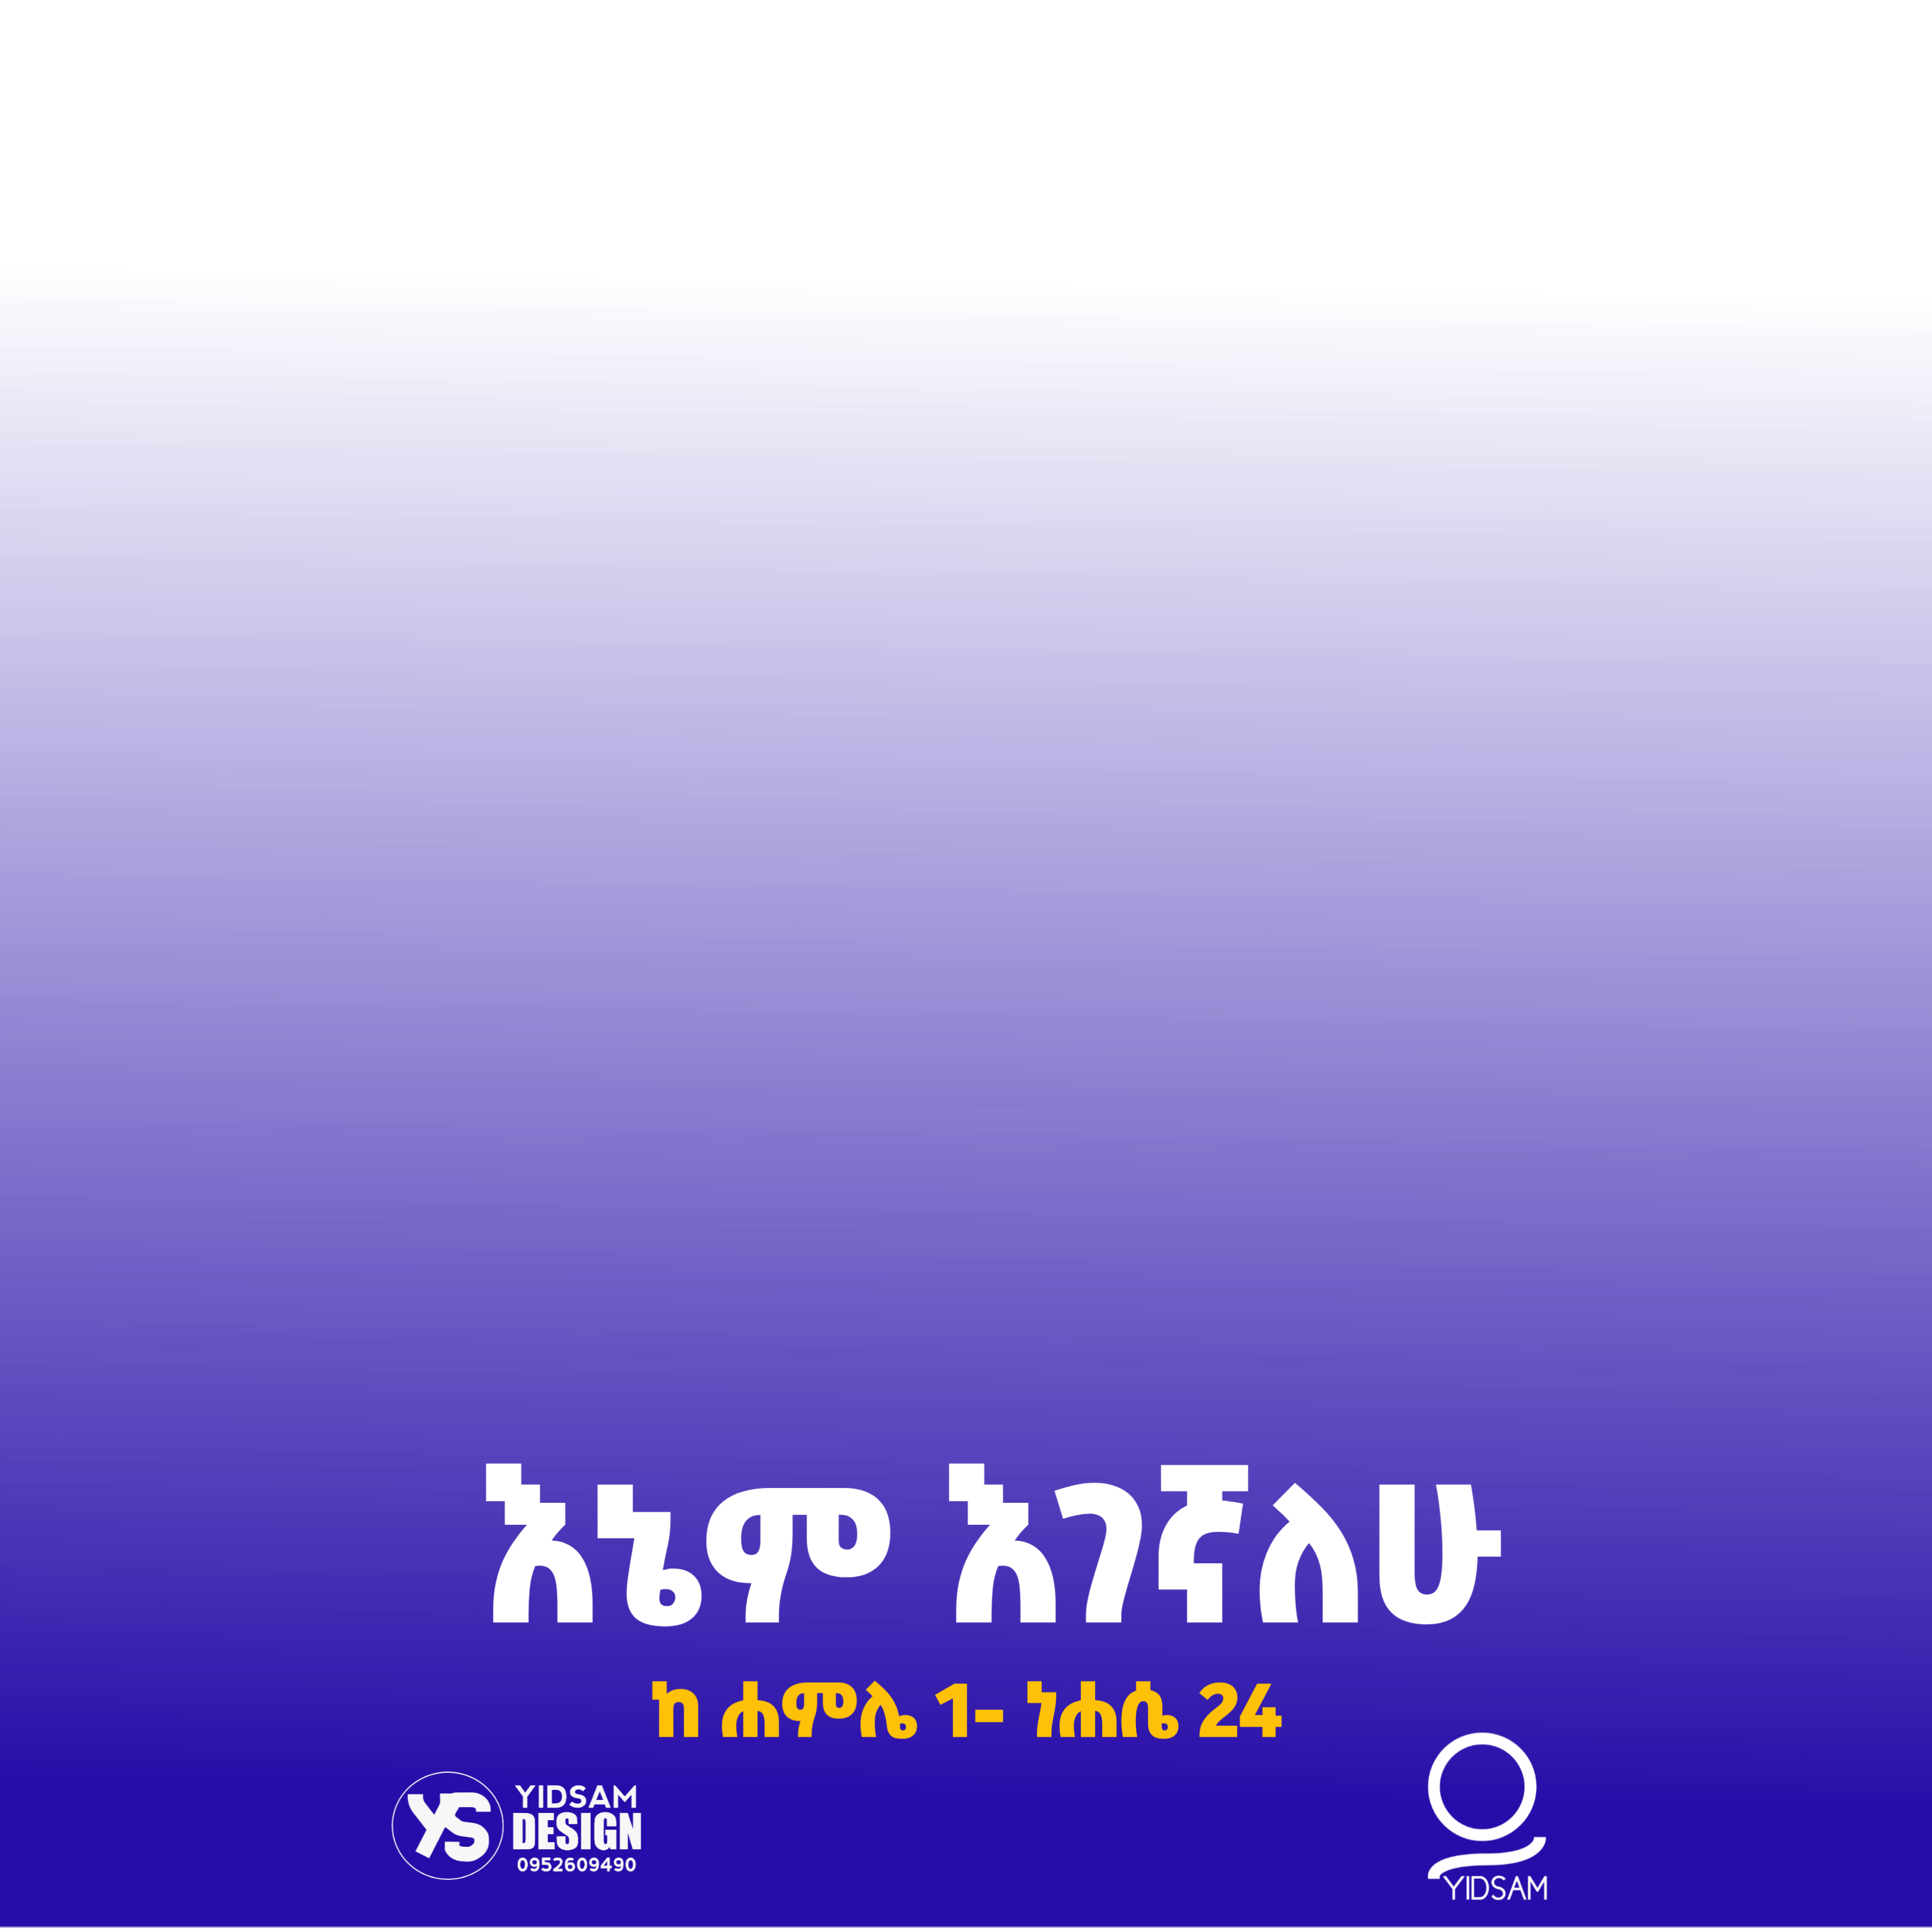
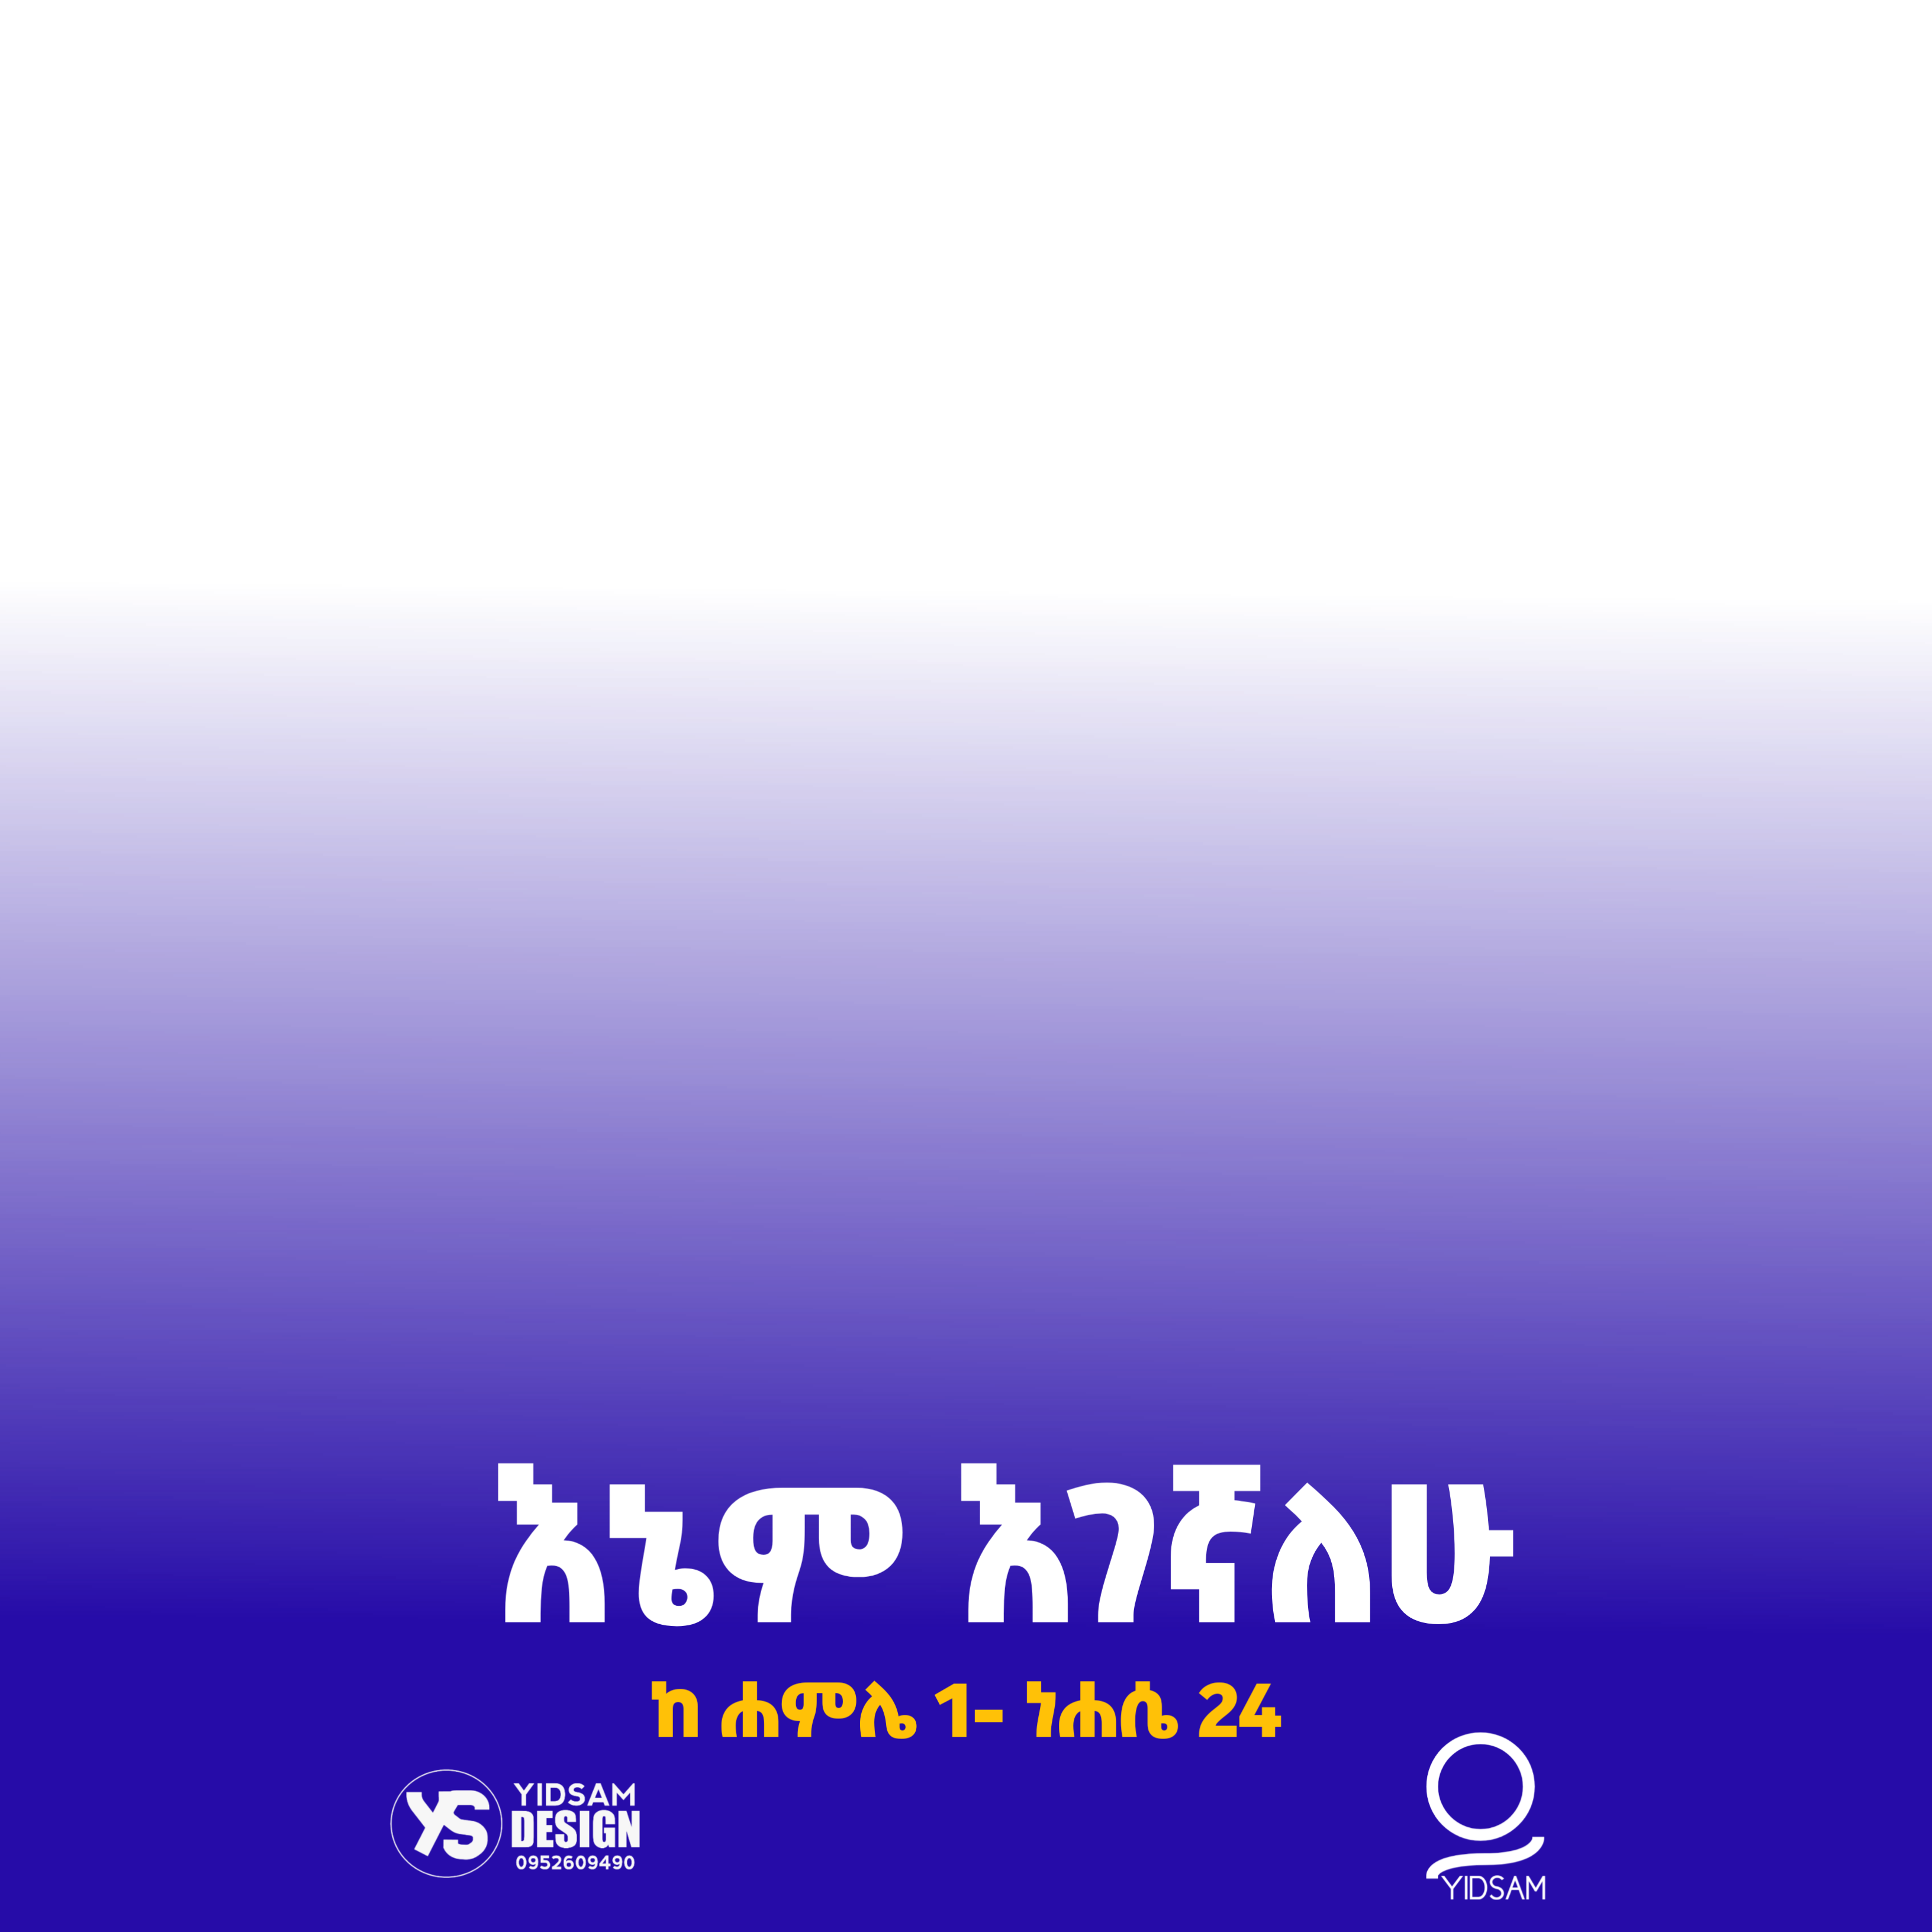
Remove OpenCV and MediaPipe

diff --git a/editor.py b/editor.py
@@ -23,35 +23,17 @@ def edit_image(input_path, output_path):
     # Crop to square
     photo = crop_square(photo)
 
-    # Resize to 1080x1080
+    # Resize to 1080 × 1080
     photo = photo.resize((1080, 1080), Image.LANCZOS)
 
-    # Load overlay
+    # Open overlay
     overlay = Image.open(Config.OVERLAY_PATH).convert("RGBA")
 
-    # Resize overlay
+    # Resize overlay to exactly match the photo
     overlay = overlay.resize((1080, 1080), Image.LANCZOS)
 
-    # Create transparent canvas
-    overlay_canvas = Image.new("RGBA", (1080, 1080), (0, 0, 0, 0))
-
-    # ==========================
-    # Move overlay DOWN
-    # Increase this value if needed
-    # ==========================
-    OVERLAY_OFFSET_Y = 40
-
-    overlay_canvas.paste(
-        overlay,
-        (0, OVERLAY_OFFSET_Y),
-        overlay
-    )
-
-    # Merge overlay with photo
-    final = Image.alpha_composite(
-        photo,
-        overlay_canvas
-    )
+    # Merge overlay directly on top of the photo
+    final = Image.alpha_composite(photo, overlay)
 
     # Save
     final.convert("RGB").save(